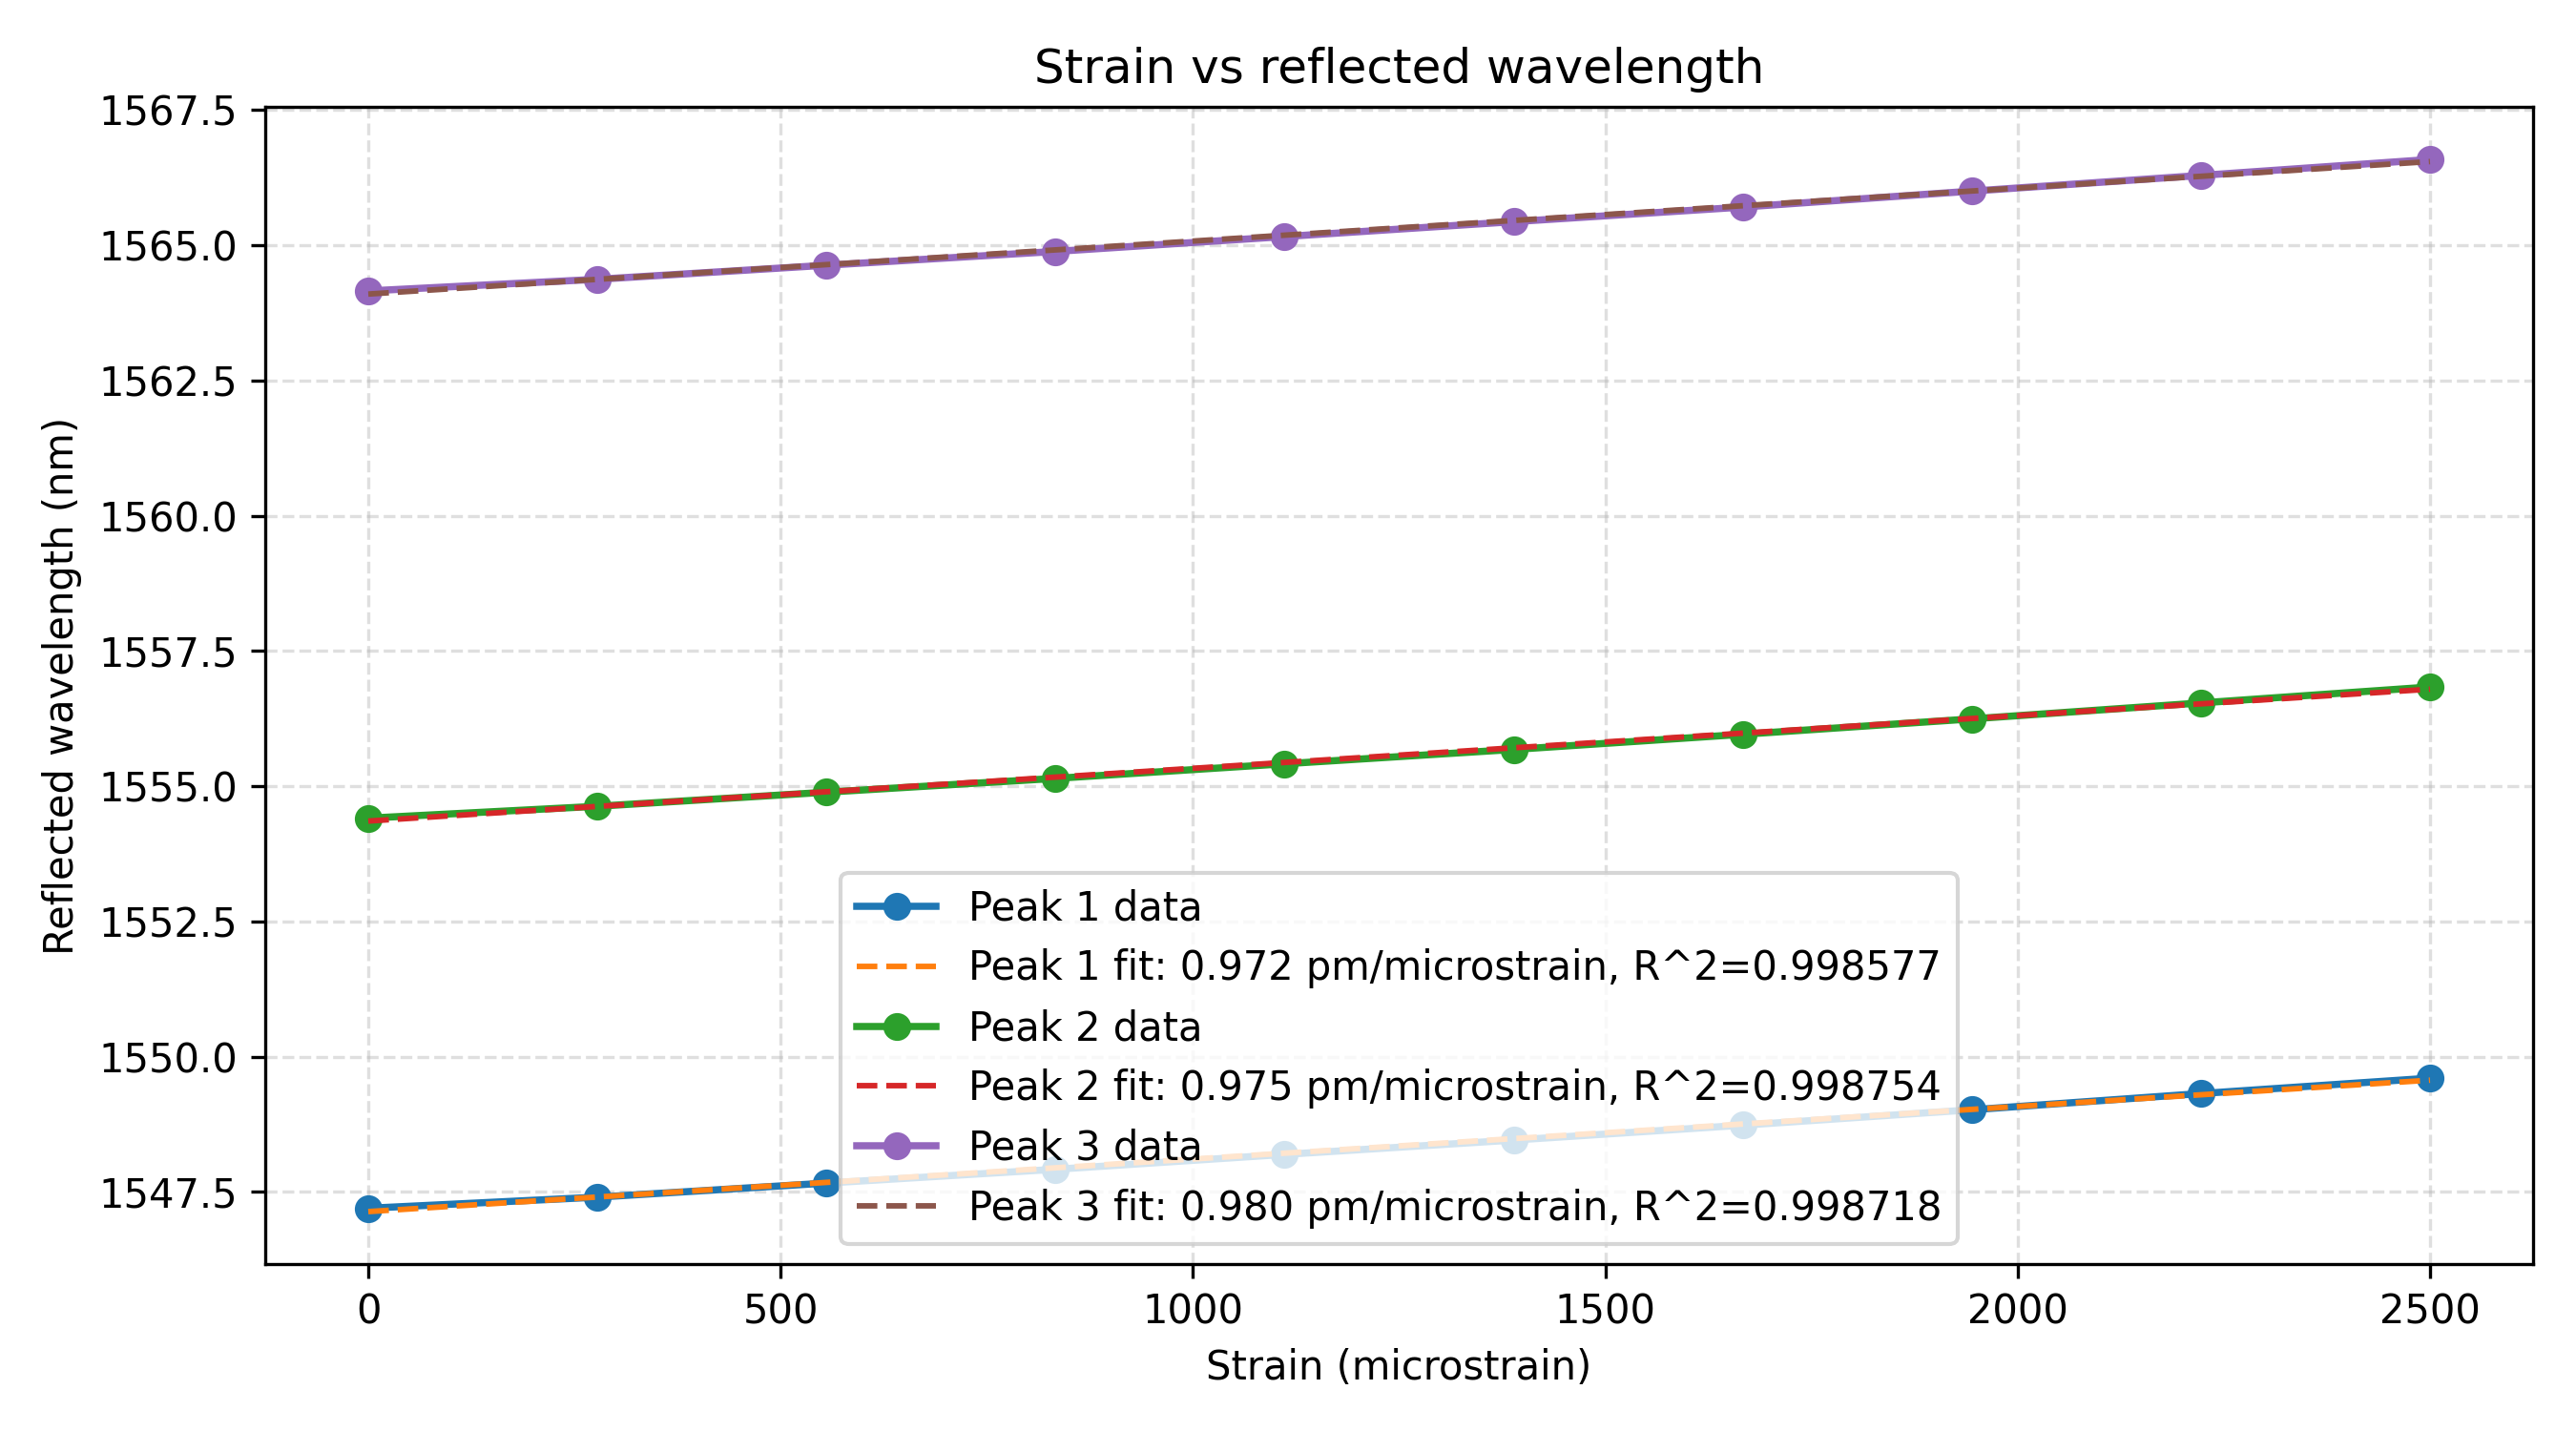
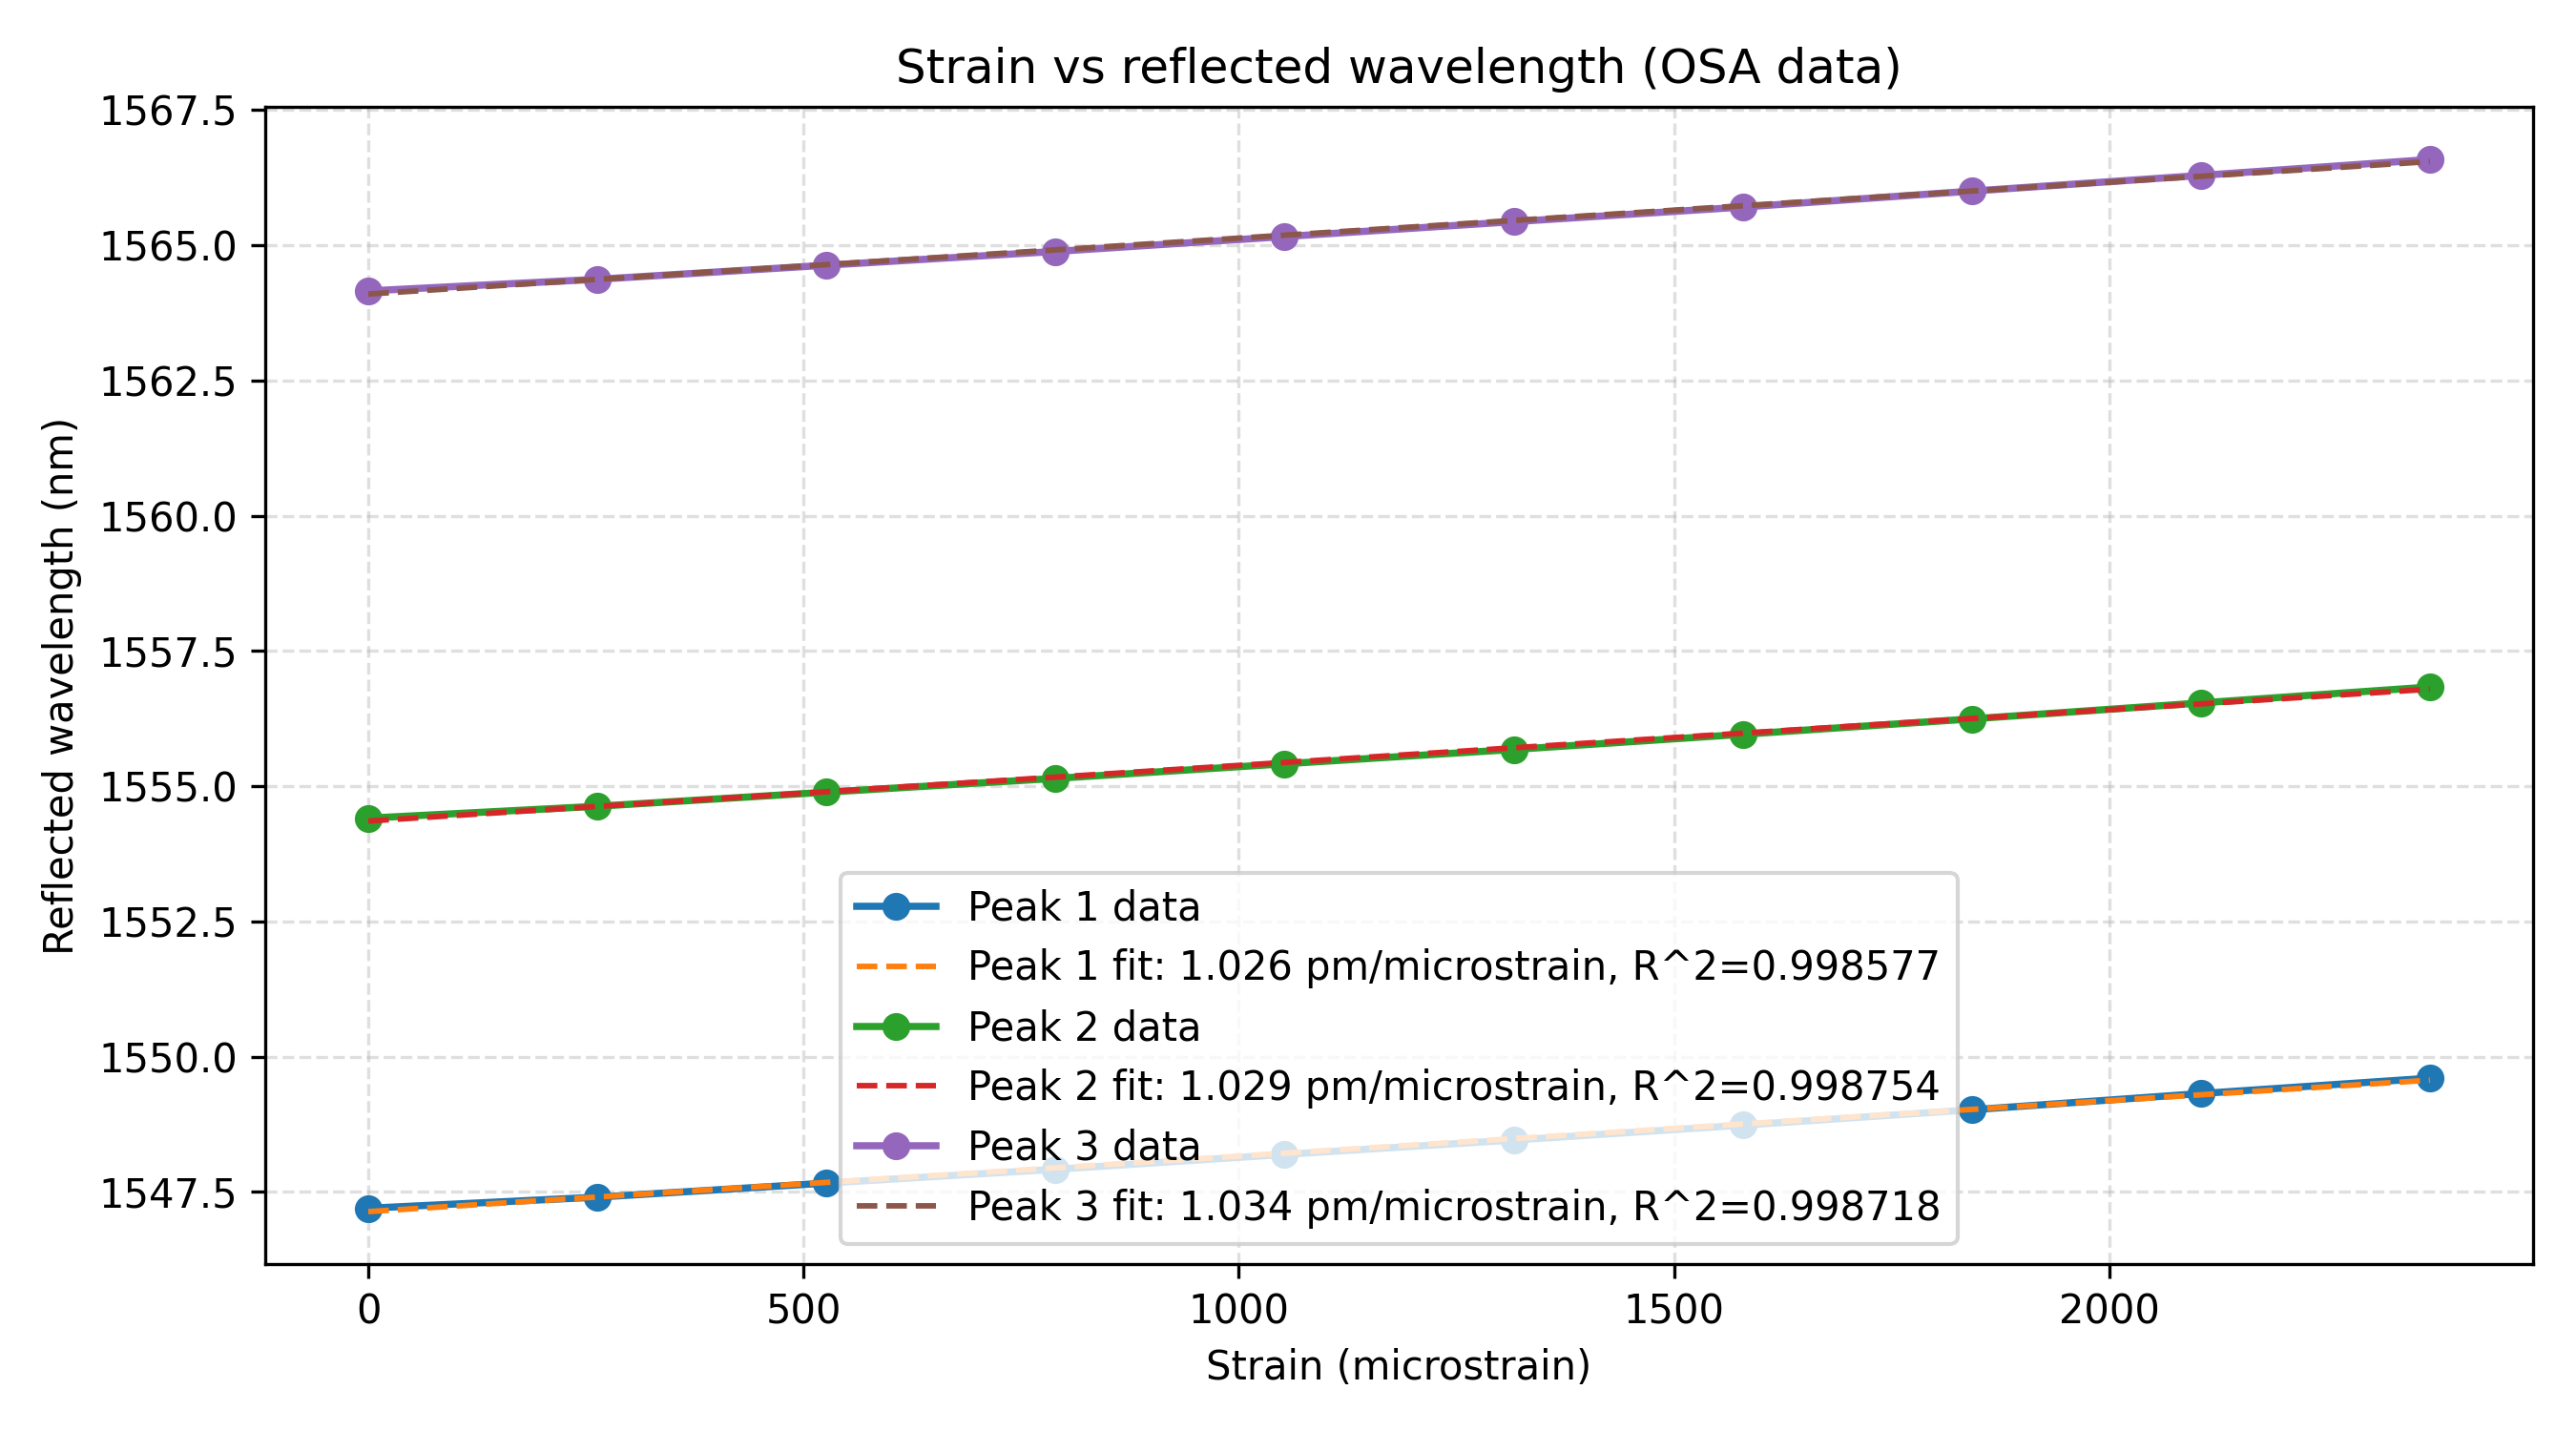
Add FBG strain analysis with OSA and CWL support

diff --git a/analyze_osa_strain.py b/analyze_osa_strain.py
@@ -1,14 +1,18 @@
 #!/usr/bin/env python3
-"""Find the three main reflected wavelengths in each OSA file and plot them vs strain.
+"""Find the three main reflected wavelengths in each measurement file and plot them vs strain.
 
 The files in this repository use:
 - tab-separated columns
 - commas as decimal separators
 - the first column as wavelength in nm
 
-For this dataset, the three FBG peaks that match the paired CWL files are stored in the
-second signal column after the wavelength column, so ``--signal-column`` defaults to ``2``.
-If your instrument labels channels differently, adjust that flag when running the script.
+By default, the script extracts peaks from the OSA files. For this dataset, the three FBG
+peaks that match the paired CWL files are stored in the second signal column after the
+wavelength column, so ``--signal-column`` defaults to ``2``. If your instrument labels
+channels differently, adjust that flag when running the script.
+
+If you run the script with ``--CWL``, it reads the reflected wavelengths directly from the
+CWL files instead of finding local maxima in the OSA traces.
 
 The default strain step is derived from the experiment constants:
 - fiber length = 36 cm
@@ -28,18 +32,23 @@ DEFAULT_SIGNAL_COLUMN = 2
 DEFAULT_NUM_PEAKS = 3
 DEFAULT_START_STRAIN = 0.0
 DEFAULT_MIN_SEPARATION_NM = 1.0
-DEFAULT_FIBER_LENGTH_CM = 36.0
+DEFAULT_FIBER_LENGTH_CM = 38.0
 DEFAULT_STEP_DISPLACEMENT_UM = 100.0
 DEFAULT_STRAIN_STEP = (
     DEFAULT_STEP_DISPLACEMENT_UM / (DEFAULT_FIBER_LENGTH_CM * 10_000.0) * 1_000_000.0
 )
+DEFAULT_OSA_CSV_OUTPUT = Path("osa_peak_summary.csv")
+DEFAULT_OSA_PLOT_OUTPUT = Path("strain_vs_reflected_wavelength.png")
+DEFAULT_CWL_CSV_OUTPUT = Path("cwl_peak_summary.csv")
+DEFAULT_CWL_PLOT_OUTPUT = Path("cwl_strain_vs_reflected_wavelength.png")
 OSA_FILENAME_RE = re.compile(r"_OSA_(\d{8}_\d{6})\.txt$")
+CWL_FILENAME_RE = re.compile(r"_CWL_(\d{8}_\d{6})\.txt$")
 
 
 def parse_args() -> argparse.Namespace:
     parser = argparse.ArgumentParser(
         description=(
-            "Find the strongest reflected wavelengths in each OSA file and plot "
+            "Find the strongest reflected wavelengths in each measurement file and plot "
             "reflected wavelength versus strain."
         )
     )
@@ -47,7 +56,12 @@ def parse_args() -> argparse.Namespace:
         "--data-dir",
         type=Path,
         default=Path("data"),
-        help="Directory containing the OSA text files (default: %(default)s).",
+        help="Directory containing the OSA and CWL text files (default: %(default)s).",
+    )
+    parser.add_argument(
+        "--CWL",
+        action="store_true",
+        help="Use the wavelengths stored in the CWL files instead of extracting peaks from the OSA files.",
     )
     parser.add_argument(
         "--signal-column",
@@ -88,14 +102,20 @@ def parse_args() -> argparse.Namespace:
     parser.add_argument(
         "--csv-output",
         type=Path,
-        default=Path("osa_peak_summary.csv"),
-        help="CSV file for the extracted peaks (default: %(default)s).",
+        default=None,
+        help=(
+            "CSV file for the extracted peaks. Defaults to "
+            f"{DEFAULT_OSA_CSV_OUTPUT} in OSA mode and {DEFAULT_CWL_CSV_OUTPUT} in CWL mode."
+        ),
     )
     parser.add_argument(
         "--plot-output",
         type=Path,
-        default=Path("strain_vs_reflected_wavelength.png"),
-        help="PNG file for the strain/wavelength plot (default: %(default)s).",
+        default=None,
+        help=(
+            "PNG file for the strain/wavelength plot. Defaults to "
+            f"{DEFAULT_OSA_PLOT_OUTPUT} in OSA mode and {DEFAULT_CWL_PLOT_OUTPUT} in CWL mode."
+        ),
     )
     return parser.parse_args()
 
@@ -111,10 +131,20 @@ def osa_sort_key(path: Path) -> tuple[int, str]:
     return (1, path.name)
 
 
-def find_osa_files(data_dir: Path) -> list[Path]:
-    files = sorted(data_dir.glob("*OSA*.txt"), key=osa_sort_key)
+def cwl_sort_key(path: Path) -> tuple[int, str]:
+    match = CWL_FILENAME_RE.search(path.name)
+    if match:
+        return (0, match.group(1))
+    return (1, path.name)
+
+
+def find_measurement_files(data_dir: Path, use_cwl: bool) -> list[Path]:
+    pattern = "*CWL*.txt" if use_cwl else "*OSA*.txt"
+    sort_key = cwl_sort_key if use_cwl else osa_sort_key
+    files = sorted(data_dir.glob(pattern), key=sort_key)
     if not files:
-        raise FileNotFoundError(f"No OSA files were found in {data_dir}")
+        file_type = "CWL" if use_cwl else "OSA"
+        raise FileNotFoundError(f"No {file_type} files were found in {data_dir}")
     return files
 
 
@@ -142,6 +172,34 @@ def load_signal_trace(path: Path, signal_column: int) -> tuple[list[float], list
         raise ValueError(f"{path} does not contain enough rows to detect peaks.")
 
     return wavelengths, values
+
+
+def load_cwl_peaks(path: Path, num_peaks: int) -> list[tuple[float, float]]:
+    peaks: list[tuple[float, float]] = []
+
+    with path.open("r", encoding="utf-8") as handle:
+        for line_number, raw_line in enumerate(handle, start=1):
+            line = raw_line.strip()
+            if not line:
+                continue
+
+            parts = line.split("\t")
+            if len(parts) < 4:
+                raise ValueError(
+                    f"{path} line {line_number} has {len(parts)} columns, "
+                    "but at least 4 columns are required in CWL mode."
+                )
+
+            wavelength = parse_decimal(parts[2])
+            value = parse_decimal(parts[3])
+            peaks.append((wavelength, value))
+
+    if len(peaks) < num_peaks:
+        raise ValueError(
+            f"{path} only contains {len(peaks)} peaks while {num_peaks} were requested."
+        )
+
+    return sorted(peaks[:num_peaks], key=lambda peak: peak[0])
 
 
 def find_top_local_maxima(
@@ -175,6 +233,7 @@ def find_top_local_maxima(
 
 def analyze_files(
     files: list[Path],
+    use_cwl: bool,
     signal_column: int,
     num_peaks: int,
     min_separation_nm: float,
@@ -185,13 +244,16 @@ def analyze_files(
 
     for file_index, path in enumerate(files):
         strain = start_strain + file_index * strain_step
-        wavelengths, values = load_signal_trace(path, signal_column)
-        peaks = find_top_local_maxima(
-            wavelengths=wavelengths,
-            values=values,
-            num_peaks=num_peaks,
-            min_separation_nm=min_separation_nm,
-        )
+        if use_cwl:
+            peaks = load_cwl_peaks(path, num_peaks)
+        else:
+            wavelengths, values = load_signal_trace(path, signal_column)
+            peaks = find_top_local_maxima(
+                wavelengths=wavelengths,
+                values=values,
+                num_peaks=num_peaks,
+                min_separation_nm=min_separation_nm,
+            )
         results.append(
             {
                 "file": path.name,
@@ -257,7 +319,7 @@ def r_squared(y_values: list[float], fitted_values: list[float]) -> float:
     return 1.0 - ss_res / ss_tot
 
 
-def plot_results(results: list[dict[str, object]], output_path: Path) -> None:
+def plot_results(results: list[dict[str, object]], output_path: Path, use_cwl: bool) -> None:
     try:
         matplotlib_config_dir = Path(".matplotlib")
         matplotlib_config_dir.mkdir(exist_ok=True)
@@ -293,7 +355,8 @@ def plot_results(results: list[dict[str, object]], output_path: Path) -> None:
 
     plt.xlabel("Strain (microstrain)")
     plt.ylabel("Reflected wavelength (nm)")
-    plt.title("Strain vs reflected wavelength")
+    source_name = "CWL data" if use_cwl else "OSA data"
+    plt.title(f"Strain vs reflected wavelength ({source_name})")
     plt.grid(True, linestyle="--", alpha=0.4)
     plt.legend()
     plt.tight_layout()
@@ -301,8 +364,11 @@ def plot_results(results: list[dict[str, object]], output_path: Path) -> None:
     plt.close()
 
 
-def print_summary(results: list[dict[str, object]], signal_column: int) -> None:
-    print(f"Signal column after wavelength: {signal_column}")
+def print_summary(results: list[dict[str, object]], signal_column: int, use_cwl: bool) -> None:
+    source_name = "CWL peak list" if use_cwl else "OSA trace analysis"
+    print(f"Data source: {source_name}")
+    if not use_cwl:
+        print(f"Signal column after wavelength: {signal_column}")
     print(
         "Strain step derived from "
         f"{DEFAULT_FIBER_LENGTH_CM:.1f} cm fiber length and "
@@ -350,9 +416,18 @@ def main() -> None:
     if args.min_separation_nm <= 0:
         raise SystemExit("--min-separation-nm must be positive.")
 
-    files = find_osa_files(args.data_dir)
+    csv_output = args.csv_output
+    if csv_output is None:
+        csv_output = DEFAULT_CWL_CSV_OUTPUT if args.CWL else DEFAULT_OSA_CSV_OUTPUT
+
+    plot_output = args.plot_output
+    if plot_output is None:
+        plot_output = DEFAULT_CWL_PLOT_OUTPUT if args.CWL else DEFAULT_OSA_PLOT_OUTPUT
+
+    files = find_measurement_files(args.data_dir, args.CWL)
     results = analyze_files(
         files=files,
+        use_cwl=args.CWL,
         signal_column=args.signal_column,
         num_peaks=args.num_peaks,
         min_separation_nm=args.min_separation_nm,
@@ -360,12 +435,12 @@ def main() -> None:
         strain_step=args.strain_step,
     )
 
-    write_csv(results, args.csv_output)
-    plot_results(results, args.plot_output)
-    print_summary(results, args.signal_column)
+    write_csv(results, csv_output)
+    plot_results(results, plot_output, args.CWL)
+    print_summary(results, args.signal_column, args.CWL)
     print()
-    print(f"CSV summary written to: {args.csv_output}")
-    print(f"Plot written to: {args.plot_output}")
+    print(f"CSV summary written to: {csv_output}")
+    print(f"Plot written to: {plot_output}")
 
 
 if __name__ == "__main__":

diff --git a/README.md b/README.md
@@ -1,0 +1,138 @@
+# Lab FBG Sensors
+
+Small Python project to analyze Fiber Bragg Grating measurements from Optical Spectrum Analyzer (`OSA`) and center-wavelength (`CWL`) exports.
+
+The script:
+- finds the 3 main reflected wavelengths for each measurement
+- converts measurement steps into strain
+- performs a linear least-squares fit for each peak
+- reports the slope and `R^2`
+- generates a `strain vs reflected wavelength` plot
+
+## Repository Contents
+
+```text
+.
+├── analyze_osa_strain.py
+├── requirements.txt
+├── data/
+│   ├── *_OSA_*.txt
+│   └── *_CWL_*.txt
+├── osa_peak_summary.csv
+├── strain_vs_reflected_wavelength.png
+├── cwl_peak_summary.csv
+└── cwl_strain_vs_reflected_wavelength.png
+```
+
+## Experiment Assumptions
+
+The script uses the following default experimental constants:
+
+- fiber length: `36 cm`
+- displacement step: `100 µm` per measurement
+
+This gives a strain step of:
+
+```text
+100 µm / 360000 µm = 2.77777778e-4
+strain = 277.777778 µstrain per file
+```
+
+## Setup
+
+Create a virtual environment and install the dependency:
+
+```bash
+python3 -m venv .venv
+.venv/bin/python -m pip install -r requirements.txt
+```
+
+## Usage
+
+### 1. Use OSA data
+
+This is the default mode. The script reads the `OSA` files, detects the 3 strongest local maxima, then fits wavelength versus strain.
+
+```bash
+.venv/bin/python analyze_osa_strain.py
+```
+
+Default outputs in this mode:
+
+- `osa_peak_summary.csv`
+- `strain_vs_reflected_wavelength.png`
+
+### 2. Use CWL data
+
+If you want to use the wavelengths already exported in the `CWL` files, run with `--CWL`:
+
+```bash
+.venv/bin/python analyze_osa_strain.py --CWL
+```
+
+Default outputs in this mode:
+
+- `cwl_peak_summary.csv`
+- `cwl_strain_vs_reflected_wavelength.png`
+
+## Outputs
+
+You can still override the output names manually if needed:
+
+```bash
+.venv/bin/python analyze_osa_strain.py --CWL \
+  --csv-output cwl_peak_summary.csv \
+  --plot-output cwl_strain_vs_reflected_wavelength.png
+```
+
+The plot contains:
+
+- measured peak wavelengths
+- linear regression lines
+- slope in `pm/µstrain`
+- coefficient of determination `R^2`
+- the data source in the title: `OSA data` or `CWL data`
+
+## Important Notes
+
+- The input files use tab-separated values.
+- Decimal values use commas, for example `1547,201`.
+- In OSA mode, the first column is wavelength in `nm`.
+- For this dataset, the relevant reflected peaks are in signal column `2` after the wavelength column, so the script defaults to `--signal-column 2`.
+- If your instrument stores the useful trace in another OSA signal column, change it with `--signal-column`.
+
+Example:
+
+```bash
+.venv/bin/python analyze_osa_strain.py --signal-column 3
+```
+
+## Main Options
+
+```bash
+.venv/bin/python analyze_osa_strain.py --help
+```
+
+Useful arguments:
+
+- `--CWL`: use `CWL` files instead of extracting peaks from `OSA` traces
+- `--data-dir`: choose another data directory
+- `--signal-column`: choose the OSA signal column to analyze
+- `--num-peaks`: number of peaks to keep
+- `--min-separation-nm`: minimum spacing between selected peaks
+- `--start-strain`: strain assigned to the first file
+- `--strain-step`: strain increment between files
+- `--csv-output`: output CSV filename
+- `--plot-output`: output plot filename
+
+## Example Results
+
+With the current dataset:
+
+- OSA mode and CWL mode give very similar peak wavelengths
+- fitted slopes are close to `0.97-0.98 pm/µstrain`
+- `R^2` values are close to `0.999`
+
+## License
+
+Add a license here if you plan to make the repository public.